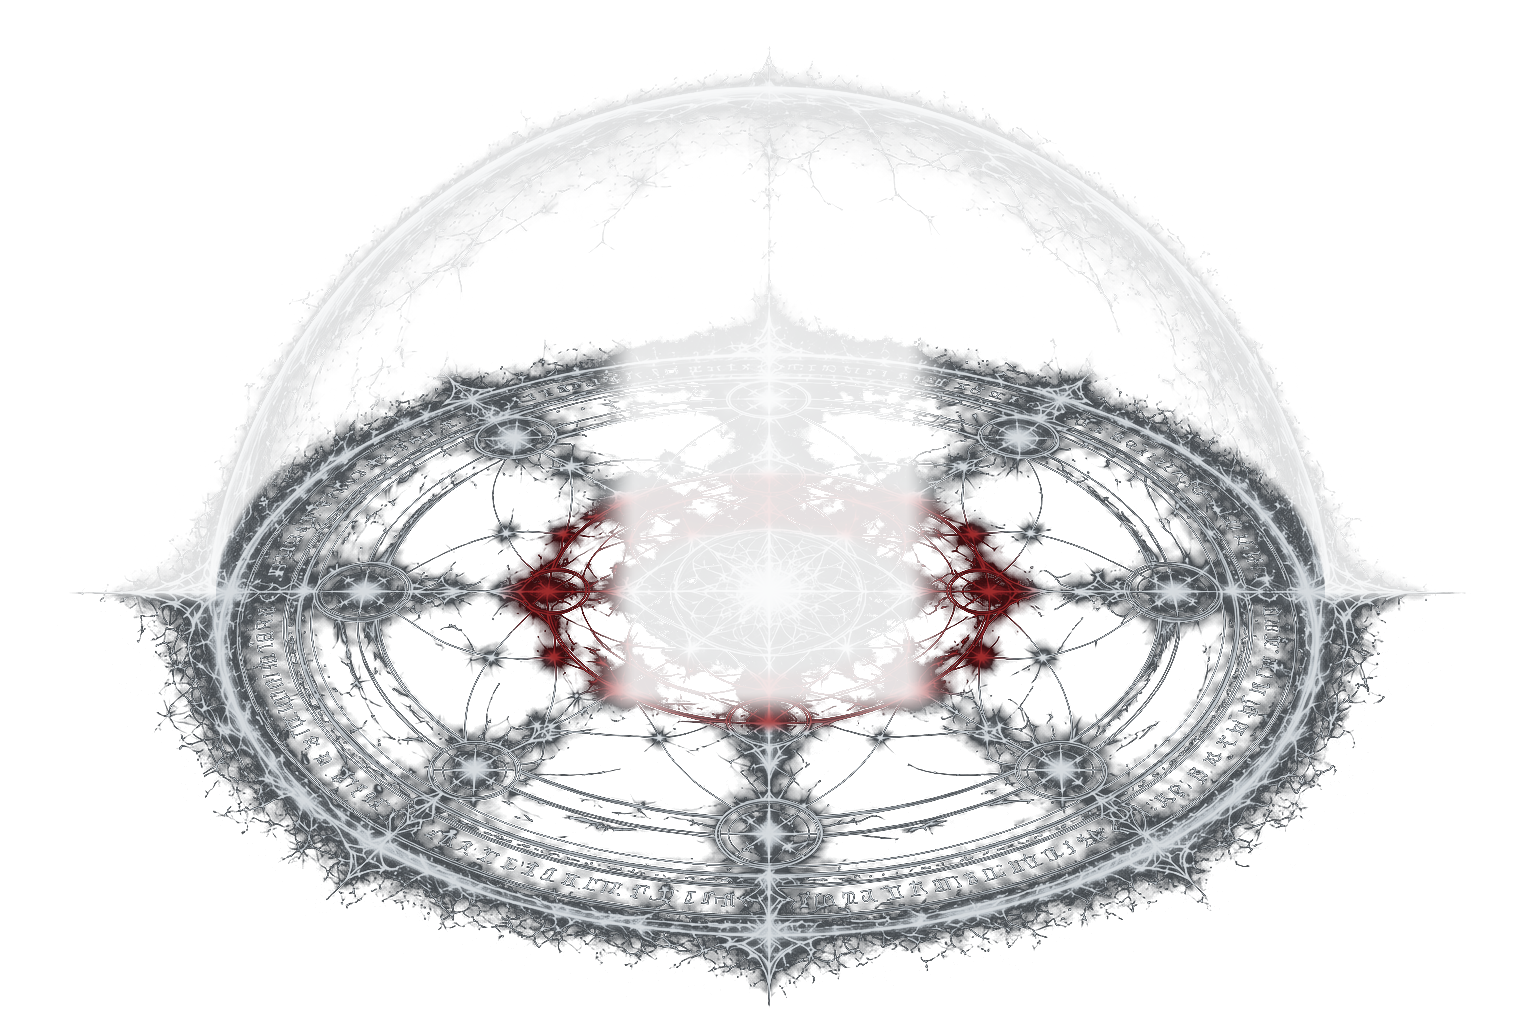
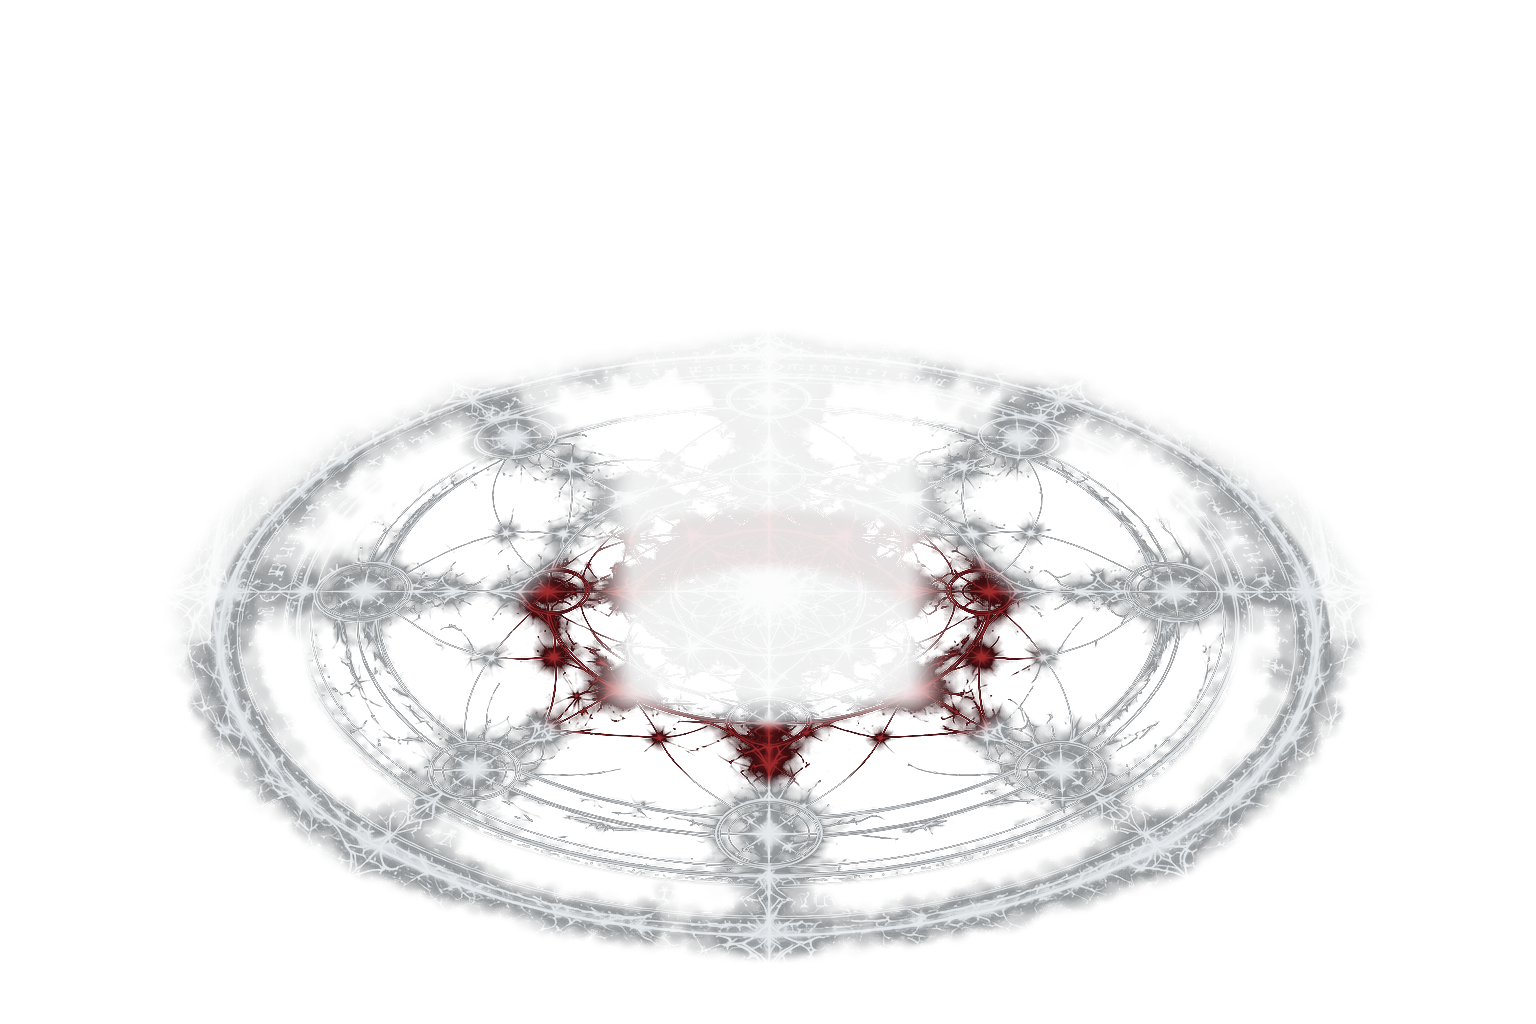
vfx(startup): 림 잔점 제거(연속 부드러운 선)·은백 알파 .5->.3 상당·안내 촬영 AutomatedInput 수정

diff --git a/tools/vfx/recolor_bonfire_barrier.py b/tools/vfx/recolor_bonfire_barrier.py
@@ -30,11 +30,15 @@ CRIMSON_LO, CRIMSON_HI = np.array([0x7a, 0x1e, 0x22], float), np.array([0xa8, 0x
 CRIMSON_SHADOW = np.array([0x2a, 0x0a, 0x0c], float)
 
 # Ellipse of the circle inside the 1536x1024 sheet (measured from the rim).
-CX, CY, RX, RY = 770.0, 600.0, 555.0, 270.0
+CX, CY, RX, RY = 770.0, 645.0, 560.0, 290.0
 CRIMSON_BAND = (.28, .46)     # elliptical radius of the single inner crimson band
 DOME_ALPHA = .18              # dome shell alpha ceiling (texture alpha, drawn at 1.0)
 TEXTURE_PEAK = .90            # silver ramp is entered only up to this t
 SPECK_PIXELS = 700            # connected alpha islands smaller than this are removed
+FRINGE_R = .80                # elliptical radius from which the rim fringe is rebuilt as one continuous soft line
+OPEN_RADIUS = 9               # grey opening radius (px): features thinner than 2*radius (sparks, tendrils) vanish
+SOFT_SIGMA = 2.2              # soft edge of the rebuilt rim line
+SILVER_ALPHA = .60            # silver part drawn at .5 * .6 = .3 overlay alpha; crimson keeps 1.0 (= .5 overlay)
 
 # hero body column (texture px): the lesson hero stands at the sheet centre; alpha <= .12 inside
 HERO_HALF_W, HERO_TOP, HERO_BOTTOM, HERO_ALPHA = 190.0, 215.0, 690.0, .12
@@ -56,6 +60,18 @@ def build(src):
     sizes = np.bincount(labels.ravel())
     small = np.isin(labels, np.nonzero(sizes < SPECK_PIXELS)[0]) & (labels > 0)
     alpha[small] = 0
+    # rim fringe: replace spark/tendril particles by a continuous soft line (grey opening + gaussian), no point particles
+    disk = (np.hypot(*np.mgrid[-OPEN_RADIUS:OPEN_RADIUS + 1, -OPEN_RADIUS:OPEN_RADIUS + 1]) <= OPEN_RADIUS)
+    opened = ndi.grey_dilation(ndi.grey_erosion(alpha, footprint=disk), footprint=disk)
+    opened = ndi.gaussian_filter(opened, SOFT_SIGMA)
+    fringe = smooth(r, FRINGE_R, FRINGE_R + .04)
+    alpha = alpha * (1 - fringe) + np.minimum(alpha, opened) * fringe
+    alpha *= 1 - smooth(r, 1.04, 1.10)   # dust outside the ring fades out
+    lab2, n2 = ndi.label(alpha > .1, structure=np.ones((3, 3)))
+    sz2 = np.bincount(lab2.ravel())
+    for i in range(1, n2 + 1):   # leftover tiny islands on the rim fringe
+        if sz2[i] < 120 and r[lab2 == i].mean() > .88:
+            alpha[lab2 == i] = 0
     # dome shell = everything above the upper edge of the ellipse
     edge = CY - RY * np.sqrt(np.clip(1 - nx * nx, 0, 1))
     dome = 1 - smooth(yy, edge - 12, edge + 6)
@@ -79,6 +95,7 @@ def build(src):
     rgb = silver * (1 - wc) + crimson * wc
     out = np.zeros((h, w, 4), np.uint8)
     out[..., :3] = np.clip(rgb.round(), 0, 255).astype(np.uint8)
+    alpha = alpha * (SILVER_ALPHA * (1 - wc[..., 0]) + wc[..., 0])
     out[..., 3] = np.clip((alpha * 255).round(), 0, 255).astype(np.uint8)
     out[out[..., 3] == 0, :3] = 0
     return out

diff --git a/tools/vfx/bonfire_barrier_silver_check.py b/tools/vfx/bonfire_barrier_silver_check.py
@@ -45,6 +45,18 @@ dome = (yy < edge - 14)
 check(px[..., 3][dome].max() / 255 <= .18 + .005, 'dome shell alpha <= .18 (%.3f)' % (px[..., 3][dome].max() / 255))
 hero = (np.abs(xx - rb.CX) <= rb.HERO_HALF_W * .7) & (yy >= rb.HERO_TOP) & (yy <= rb.HERO_BOTTOM)
 check(px[..., 3][hero].max() / 255 <= .12 + .005, 'hero body column alpha <= .12 (%.3f)' % (px[..., 3][hero].max() / 255))
+# silver overlay alpha .5*.6 = .3; crimson keeps .5 (texture alpha 1.0)
+rr0 = np.sqrt(nx * nx + ((yy - rb.CY) / rb.RY) ** 2)
+wc0 = rb.smooth(rr0, rb.CRIMSON_BAND[0] - .04, rb.CRIMSON_BAND[0] + .02) * (1 - rb.smooth(rr0, rb.CRIMSON_BAND[1] - .02, rb.CRIMSON_BAND[1] + .04))
+sil = vis & (wc0 < .02)
+check(px[..., 3][sil].max() / 255 <= rb.SILVER_ALPHA + .01, 'silver texture alpha <= %.2f -> overlay %.2f (max %.3f)' % (rb.SILVER_ALPHA, .5 * rb.SILVER_ALPHA, px[..., 3][sil].max() / 255))
+# no particles on the rim fringe: alpha islands (a>26) smaller than 60 px outside r>.92 must not exist
+from scipy import ndimage as ndi
+rr = np.sqrt(nx * nx + ((yy - rb.CY) / rb.RY) ** 2)
+lab, n = ndi.label(px[..., 3] > 26, structure=np.ones((3, 3)))
+sizes = np.bincount(lab.ravel())
+small = [i for i in range(1, n + 1) if sizes[i] < 120 and rr[lab == i].mean() > .92]
+check(len(small) == 0, 'rim fringe point particles = 0 (found %d)' % len(small))
 # code constants
 size = float(re.search(r'BarrierSize=([\d.]+)', text).group(1))
 alpha = float(re.search(r'BarrierAlpha=([\d.]+)f', text).group(1))

diff --git a/unity/Assets/Exoduser/Runtime/NativeGame.StartupGuideReview.cs b/unity/Assets/Exoduser/Runtime/NativeGame.StartupGuideReview.cs
@@ -15,6 +15,9 @@ namespace Exoduser.UnityPort
    Directory.CreateDirectory(output);string seq=Path.Combine(output,"seq");Directory.CreateDirectory(seq);var log=new System.Text.StringBuilder();
    Action<string> note=s=>{log.AppendLine(s);Debug.Log("[guide-review] "+s);};
    Screen.SetResolution(1920,1080,FullScreenMode.Windowed);yield return new WaitForSecondsRealtime(.5f);
+   // Cause of create=False: TransitionPage() only runs the lobby callbacks synchronously for AutomatedInput/legacy fixtures; otherwise it queues a screen transition
+   // that waits for video readiness (never ready in a capture), so characterStep stayed 0. Scripted QA must mark the lobby as automated.
+   lobby.AutomatedInput=true;
    lobby.ShowLobby();yield return new WaitForSecondsRealtime(1.5f);
    if(lobby.Characters.Count==0){
     note("open="+lobby.OpenCharacterCreation());
